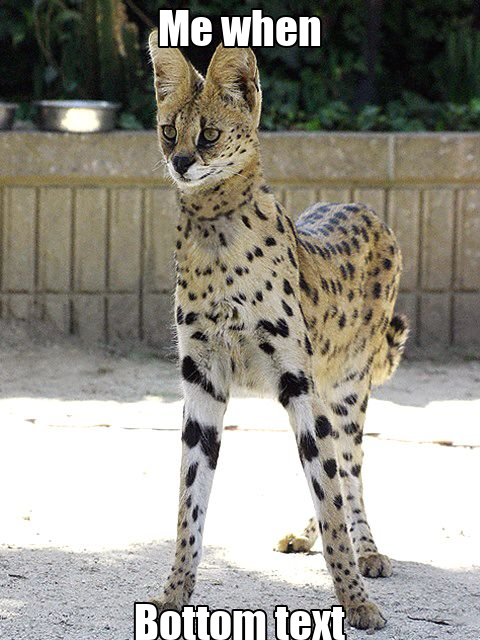
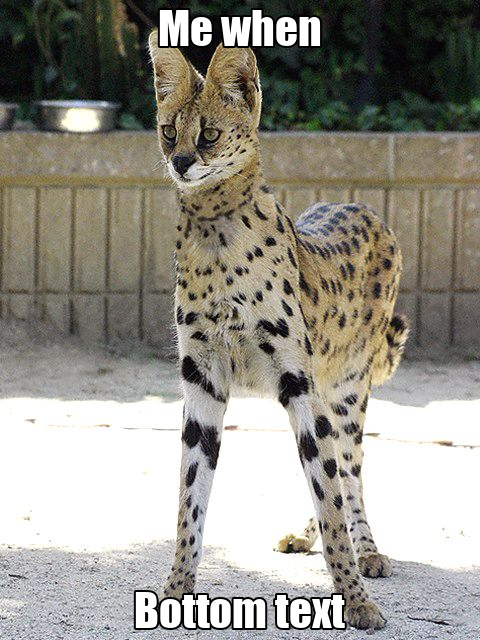
sdfljk

Changed region(s): [[0.2812, 0.9062, 0.7188, 1.0]]

diff --git a/ttbt.py b/ttbt.py
@@ -27,8 +27,7 @@ def main(image, t, b):
     draw = ImageDraw.Draw(img)
     font = ImageFont.truetype("assets/impact.ttf", size=int(H/14))
 
-    fw = draw.textsize('a', font=font)
-    fw = fw[0]
+    fw, fh = draw.textsize('a', font=font)
 
     offset = 0
     for line in textwrap.wrap(t, width=int(W/fw)):
@@ -36,7 +35,7 @@ def main(image, t, b):
         draw.text(((W-w)/2,offset), line, fill="white", stroke_width=int((H/14)/16), stroke_fill="black", font=font)
         offset += font.getsize(line)[1]
 
-    offset = H
+    offset = H-fh/4
     for line in textwrap.wrap(b, width=int(W/fw)):
         w, h = draw.textsize(line, font=font)
         offset -= font.getsize(line)[1]
@@ -51,3 +50,4 @@ def main(image, t, b):
 
 if __name__ == "__main__":
     main()
+
